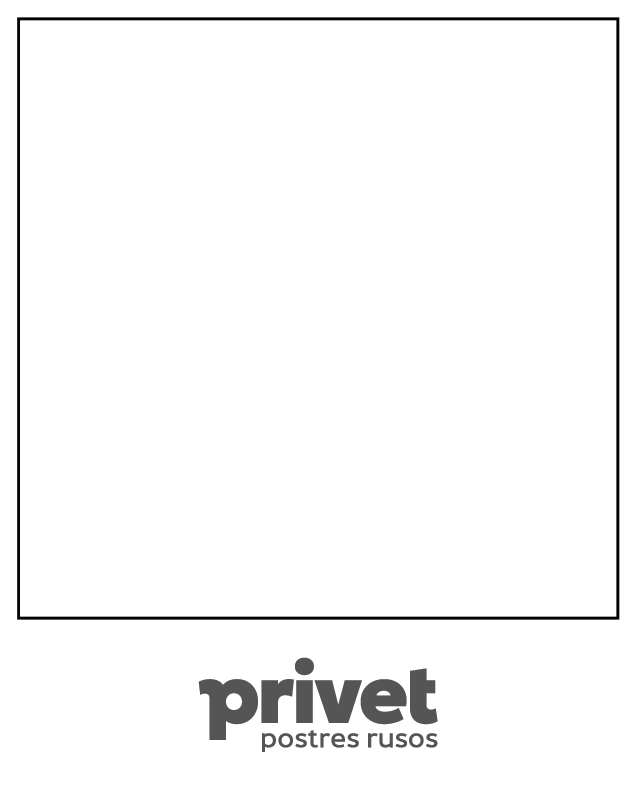
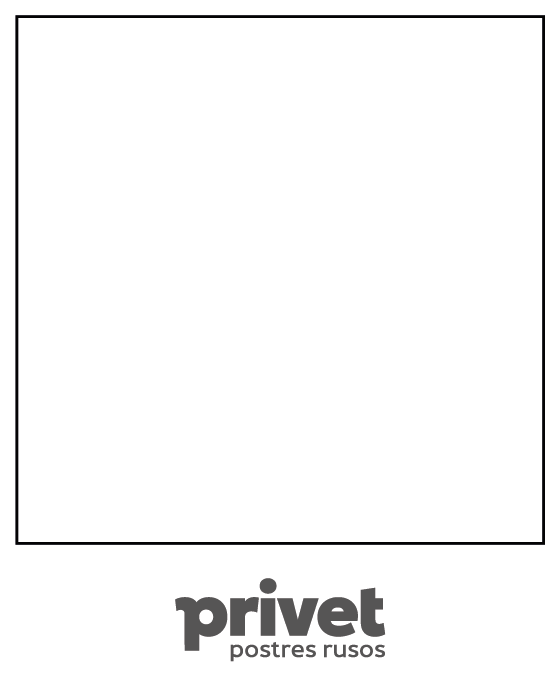
изменение размера фото 560

diff --git a/index.html b/index.html
@@ -20,7 +20,6 @@
       display: block;
       width: 100%;
       max-width: 400px;
-      /* height: 600px; */
       margin: 10px auto;
       border: 1px solid #ccc;
     }
@@ -194,8 +193,8 @@
       try {
         stream = await navigator.mediaDevices.getUserMedia({
           video: {
-            width: 600,
-            height: 600,
+            width: 527,
+            height: 527,
             facingMode: { exact: facingMode }
           }
         });
@@ -203,8 +202,8 @@
         // Если exact не поддерживается (например, на десктопе), пробуем без exact
         stream = await navigator.mediaDevices.getUserMedia({
           video: {
-            width: 600,
-            height: 600,
+            width: 527,
+            height: 527,
             facingMode: facingMode
           }
         });
@@ -234,8 +233,8 @@
 
     document.getElementById('snap').onclick = () => {
       const ctxDraft = originalCanvas.getContext('2d');
-      originalCanvas.width = previewCanvas.width = 600;
-      originalCanvas.height = previewCanvas.height = 600;
+      originalCanvas.width = previewCanvas.width = 527;
+      originalCanvas.height = previewCanvas.height = 527;
 
       if (currentFacingMode === "user") {
         // Отразить по X
@@ -284,11 +283,11 @@
         const sy = (srcH - side) / 2;
 
         // --- задаём размер итогового canvas ---
-        const targetSize = 600;
+        const targetSize = 527;
         originalCanvas.width = targetSize;
         originalCanvas.height = targetSize;
 
-        // --- рисуем обрезанный квадрат, зумим в 600×600 ---
+        // --- рисуем обрезанный квадрат, зумим в 527 ---
         ctxDraft.drawImage(
           img,            // источник
           sx, sy, side, side, // что взять из оригинала
@@ -413,15 +412,15 @@
         });
 
         // рисуем дату на canvas
-        ctxFinal.fillText(formattedDate, 530, 775);
+        ctxFinal.fillText(formattedDate, 450, 680);
 
         error_diffusion(finalCanvas);
 
         // вставляем фото с превью
-        const photoX = 18;  // позиция фото внутри рамки
-        const photoY = 18;
-        const photoW = 600;
-        const photoH = 600;
+        const photoX = 16.5;  // позиция фото внутри рамки
+        const photoY = 16.5;
+        const photoW = 527;
+        const photoH = 527;
 
         ctxFinal.drawImage(
           previewCanvas,
